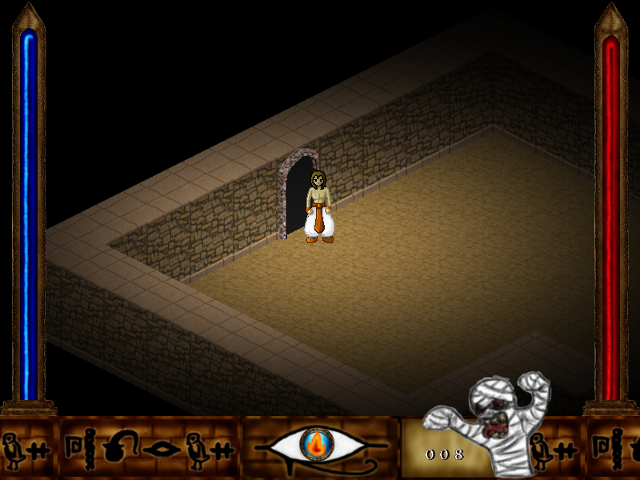
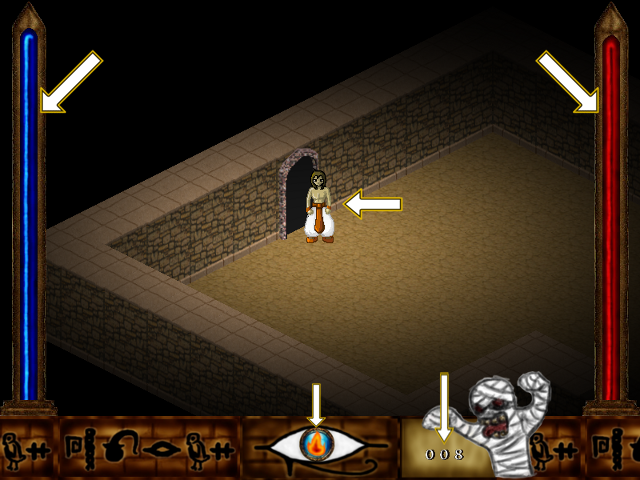
help finalmente terminado!
git-svn-id: http://xp-dev.com/svn/horus_eye/trunk@504 863e7ce6-8861-447e-8dcb-03987b876380

diff --git a/src/game/scenes/menubuilder.cc b/src/game/scenes/menubuilder.cc
@@ -611,8 +611,10 @@ Menu *MenuBuilder::BuildHelpPage5 (PageManager *manager) {
     options_sprite->set_hotspot(Vector2D(options_sprite->image()->width()/2.0f, 0));
     
     float top = VIDEO_MANAGER()->video_size().y - img->height();
-    float spacing = VIDEO_MANAGER()->video_size().y/6.0f;
-    
+    Vector2D middle = VIDEO_MANAGER()->video_size();
+    middle.x = middle.x*0.5f;
+    middle.y = middle.y*0.5f;
+
     // Setting the selection sprite.
     Sprite *selection_sprite = new Sprite;
     selection_sprite->Initialize(VIDEO_MANAGER()->LoadImage("data/images/selection.png"));
@@ -631,8 +633,46 @@ Menu *MenuBuilder::BuildHelpPage5 (PageManager *manager) {
 
     Sprite *title = new Sprite;
     title->Initialize(TEXT_LOADER()->GetImage("Interface"));
-    title->set_hotspot(Vector2D(title->image()->width() * 0.5f, title->image()->height() * 0.5f)); 
-    page->AddSprite(title, Vector2D(VIDEO_MANAGER()->video_size().x/2.0f, spacing*0.5f));
+    title->set_hotspot(Vector2D(title->image()->width() * 0.5f, 0.0f)); 
+    page->AddSprite(title, Vector2D(middle.x, 0));
+
+    Sprite *mana = new Sprite;
+    mana->Initialize(TEXT_LOADER()->GetImage("Mana Bar"));
+    page->AddSprite(mana, Vector2D(middle.x-220, middle.y-215));
+    
+    Sprite *life = new Sprite;
+    life->Initialize(TEXT_LOADER()->GetImage("Life Bar"));
+    life->set_hotspot(Vector2D(life->image()->width(), 0));
+    page->AddSprite(life, Vector2D(middle.x+220, middle.y-215));
+    
+    Sprite *hero = new Sprite;
+    hero->Initialize(TEXT_LOADER()->GetImage("Hero"));
+    page->AddSprite(hero, Vector2D(middle.x+90, middle.y-50));
+    
+    Sprite *spell1 = new Sprite;
+    spell1->Initialize(TEXT_LOADER()->GetImage("Type of"));
+    spell1->set_hotspot(Vector2D(spell1->image()->width()*0.5f, 0));
+    page->AddSprite(spell1, Vector2D(middle.x, middle.y+80));
+    
+    Sprite *spell2 = new Sprite;
+    spell2->Initialize(TEXT_LOADER()->GetImage("Spell"));
+    spell2->set_hotspot(Vector2D(spell2->image()->width()*0.5f, 0));
+    page->AddSprite(spell2, Vector2D(middle.x, middle.y+110));
+    
+    Sprite *counter1 = new Sprite;
+    counter1->Initialize(TEXT_LOADER()->GetImage("Missing"));
+    counter1->set_hotspot(Vector2D(counter1->image()->width()*0.5f, 0));
+    page->AddSprite(counter1, Vector2D(middle.x+120, middle.y+40));
+    
+    Sprite *counter2 = new Sprite;
+    counter2->Initialize(TEXT_LOADER()->GetImage("Mummies"));
+    counter2->set_hotspot(Vector2D(counter2->image()->width()*0.5f, 0));
+    page->AddSprite(counter2, Vector2D(middle.x+120, middle.y+70));
+    
+    Sprite *counter3 = new Sprite;
+    counter3->Initialize(TEXT_LOADER()->GetImage("Counter"));
+    counter3->set_hotspot(Vector2D(counter3->image()->width()*0.5f, 0));
+    page->AddSprite(counter3, Vector2D(middle.x+120, middle.y+100));
     
     return page;
 }
